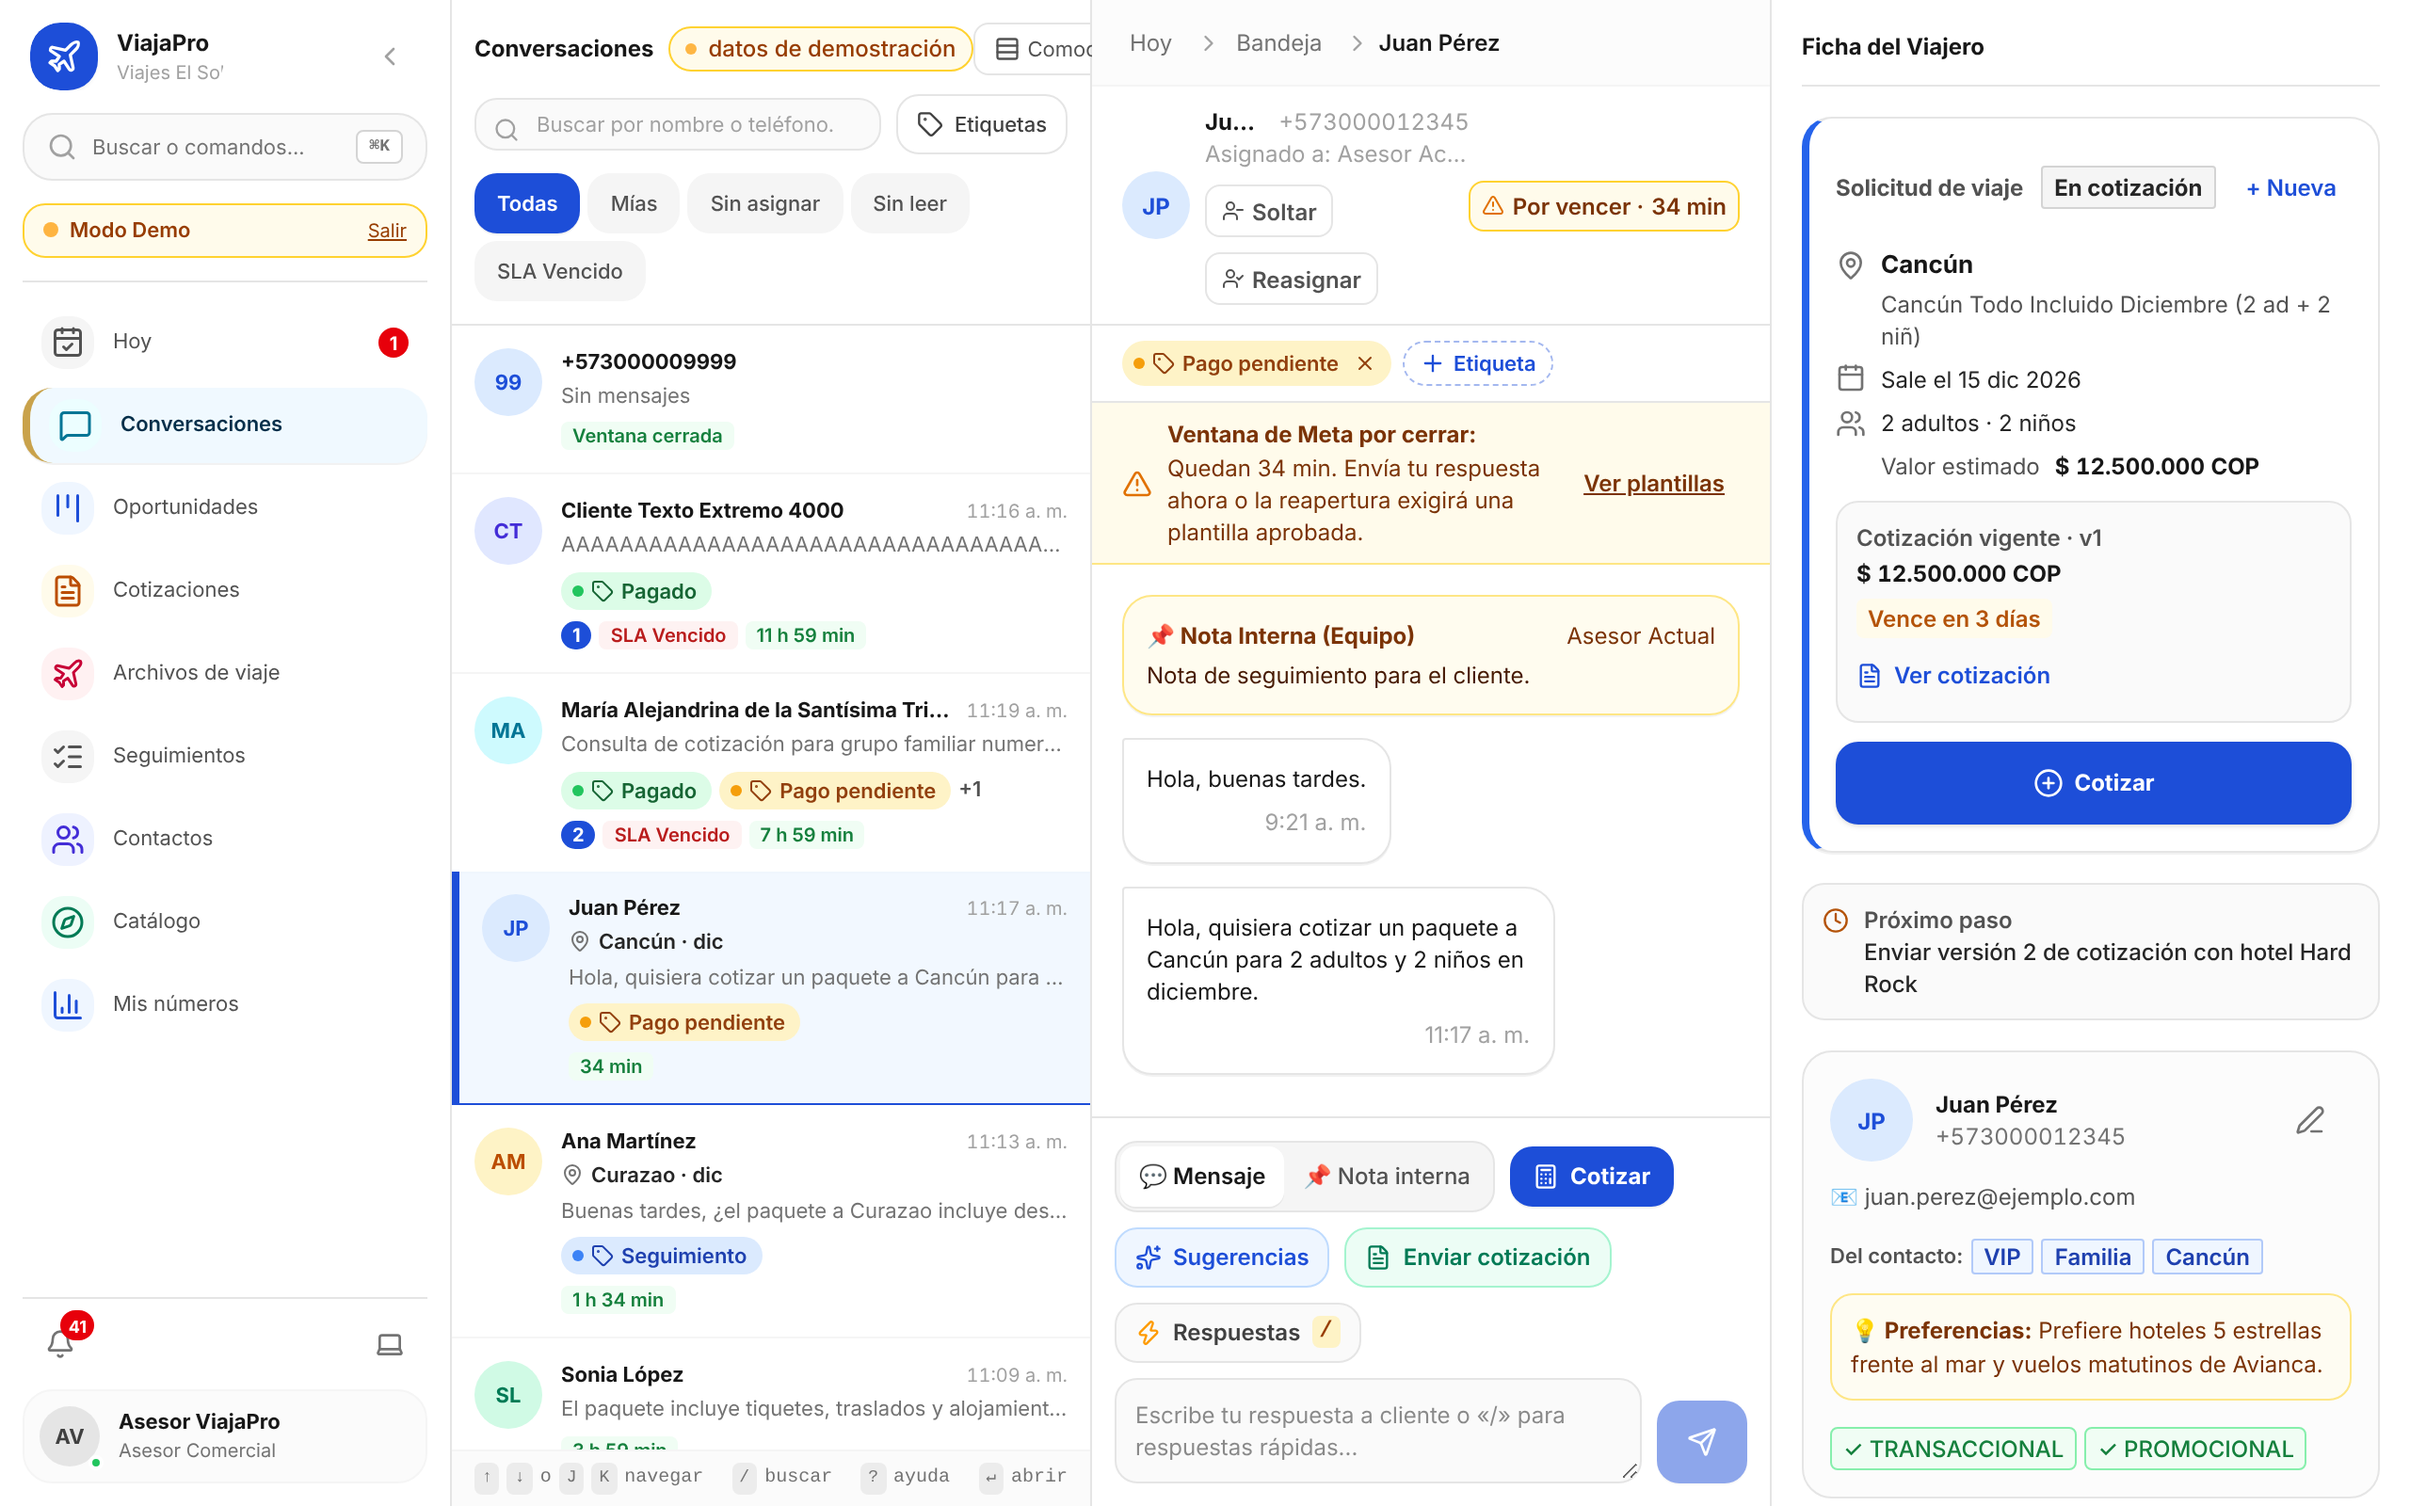
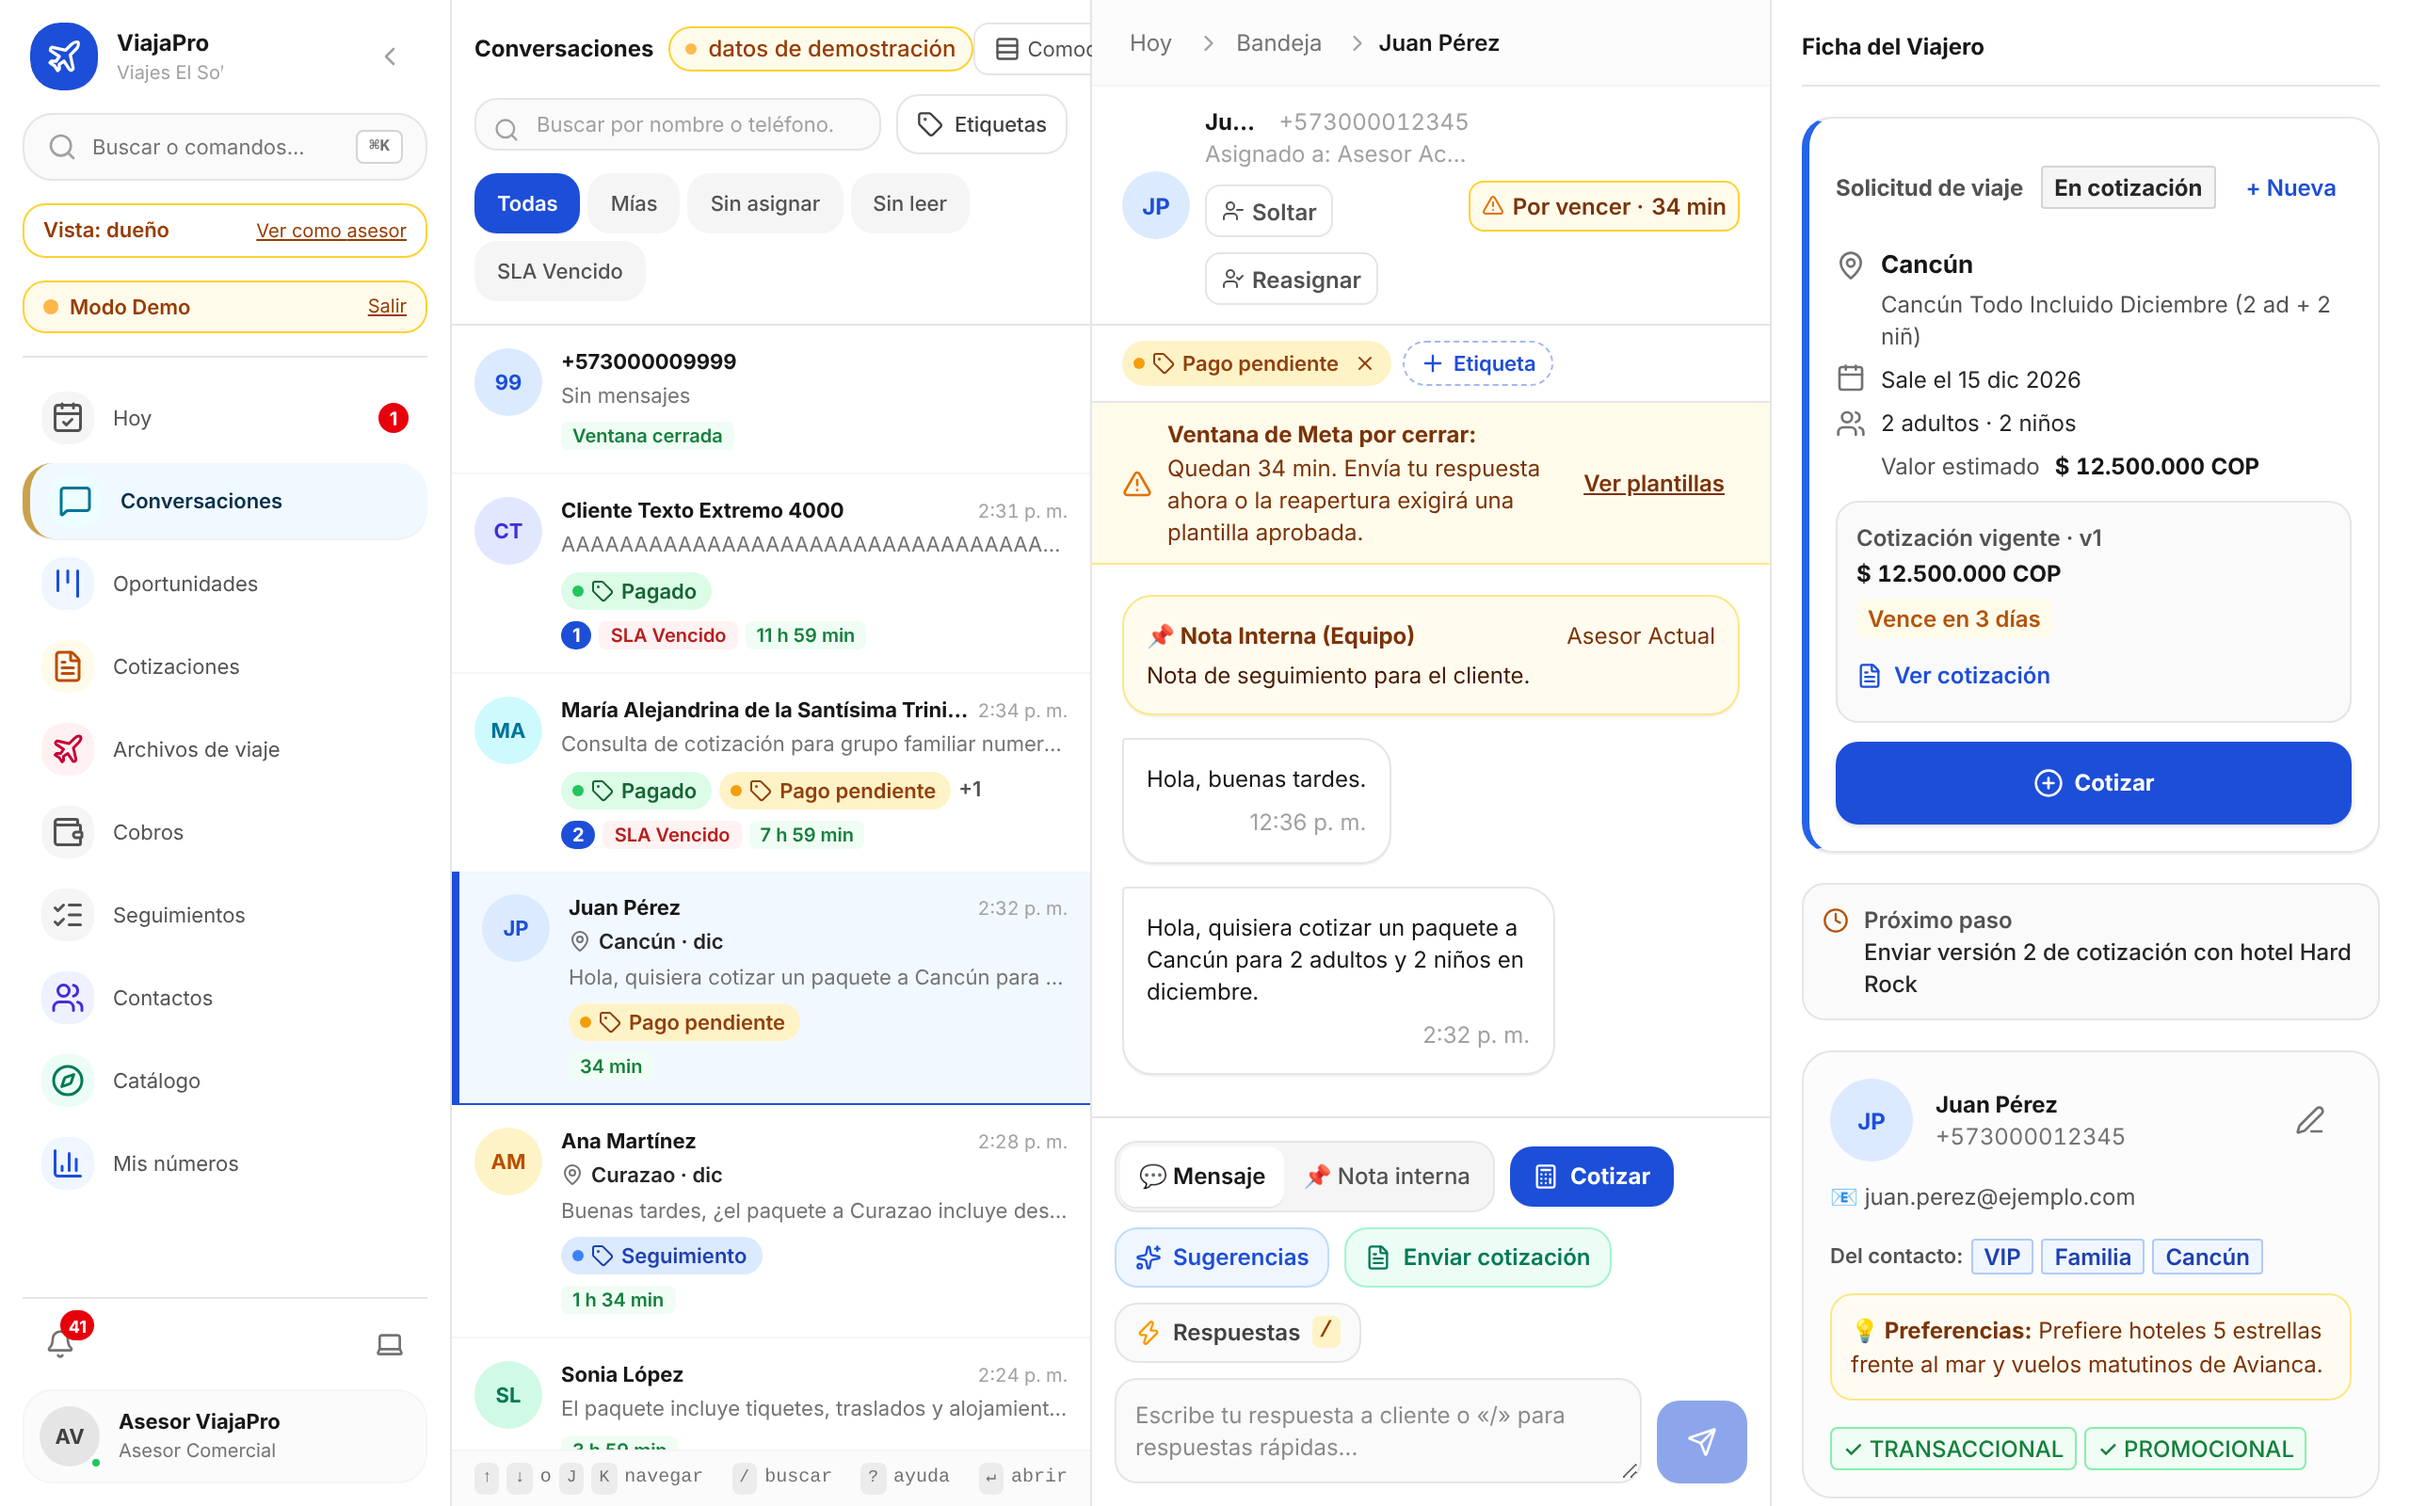
docs(hilo): el recorrido del asesor describe las pantallas de hoy (T-576)

diff --git a/docs/06-manual/01-recorrido-del-asesor.md b/docs/06-manual/01-recorrido-del-asesor.md
@@ -6,9 +6,11 @@ y, cuando algo todavía no existe, **lo dice**.
 > **Antes de empezar:** las capturas son de la demostración («Viajes El Sol», datos de muestra), no
 > de una agencia real. Léete las [tres advertencias](README.md#léelo-con-estas-tres-advertencias).
 
-El menú de la izquierda (en el celular, la barra de abajo y la hoja «Más») tiene siempre las mismas
-entradas: **Hoy · Conversaciones · Oportunidades · Cotizaciones · Archivos de viaje · Seguimientos ·
-Contactos · Catálogo · Mis números**. Con la lupa de arriba («Buscar o comandos…», también `Ctrl K` o
+El menú de la izquierda (en el celular, la barra de abajo y la hoja «Más») muestra las entradas que tu
+perfil permite. Un asesor ve: **Hoy · Conversaciones · Oportunidades · Cotizaciones · Archivos de viaje ·
+Seguimientos · Contactos · Catálogo · Mis números**. Quien tiene permisos de dueño ve además **Cobros**
+(y **Configuración**), y su última entrada se llama «Reportes de la agencia». Las capturas de este manual,
+salvo la del paso 11, están tomadas con la vista del dueño, por eso muestran «Cobros». Con la lupa de arriba («Buscar o comandos…», también `Ctrl K` o
 `⌘K`) llegas a cualquier pantalla escribiendo su nombre.
 
 ---
@@ -35,9 +37,6 @@ tu computador o celular. Dentro de la aplicación, el mismo ajuste está en el i
 lateral, junto a la campana: cada clic pasa de *Sistema* a *Claro*, de *Claro* a *Oscuro* y de *Oscuro* de
 vuelta a *Sistema*. Las capturas de este manual están en tema claro.
 
-- El recuadro verde de arriba del formulario («Modo de Producción… Conectado a la API») **solo
-  refleja cómo está configurada la aplicación; no comprueba que el servidor esté respondiendo**. En
-  la captura sale así aunque se tomó sin ninguna API (T-565).
 - Tu sesión se cierra sola tras un rato sin actividad; la pantalla te lo avisa y vuelves a ingresar.
 - Verás cada agencia por separado: **nunca** aparecen conversaciones, contactos ni cotizaciones de otra
   agencia.
@@ -243,10 +242,9 @@ por cobrar de tus archivos.
 
 - Si tu perfil solo ve lo propio, el título es **«Mis números»**; el dueño ve **«Reportes de la
   agencia»** (ver [su recorrido](02-recorrido-del-dueno.md#6-reportes-de-toda-la-agencia)).
-- ⚠ **La captura de arriba no es la vista de un asesor puro.** El usuario de la demostración tiene
-  permisos de dueño, así que la pantalla se titula «Reportes de la agencia»; para acercarse a lo que ve
-  un asesor se eligió el filtro **«Míos»**. Con un asesor real, el título y el menú dicen «Mis números» y
-  desaparece la comparación entre asesores (T-566).
+- La captura está tomada con la **vista de asesor** de la demostración: el título y el menú dicen «Mis
+  números», sin Configuración ni Cobros y sin la comparación entre asesores (T-566). Esa vista solo existe
+  en la demostración: en la barra lateral, «Vista: asesor» alterna con «Vista: dueño».
 - Cuando hay pocos datos (por ejemplo, menos de 20 cotizaciones enviadas), el sistema **no muestra
   porcentaje** en vez de mostrar uno engañoso.
 - Algunas cifras propias, como tus cotizaciones abiertas y tus cobros por cobrar, **aún no se calculan

diff --git a/docs/_bitacora/2026-11-21-manual-al-dia.md b/docs/_bitacora/2026-11-21-manual-al-dia.md
@@ -1,0 +1,26 @@
+# 2026-11-21 — El manual vuelve a describir las pantallas de hoy (T-576)
+
+**Participantes:** agente `documentador`
+**Duración / alcance:** `docs/06-manual/`: dos notas obsoletas, capturas regeneradas, menú del asesor.
+
+## Qué se hizo
+- Paso 1 del recorrido del asesor: se quitó la nota del recuadro verde «Conectado a la API» (T-565 lo retiró).
+- Paso 11: se quitó la advertencia del filtro «Míos». `capturas.mjs` ahora toma `asesor-11-mis-numeros` con
+  `/reportes?vista=asesor` (vista de asesor puro de la demostración, T-566). La captura muestra el título «Mis números».
+- `regenerar-capturas.md`: se quitó la misma afirmación del recuadro verde.
+- Se regeneraron las 16 capturas (la de ingreso con una compilación aparte con `NEXT_PUBLIC_USE_REAL_AUTH=true`).
+- El menú de la introducción decía que era «siempre el mismo»: ya no lo es. El dueño ve además «Cobros» (T-332).
+
+## Decisiones tomadas
+| Decisión | Razón | Dónde quedó registrada |
+|---|---|---|
+| Las capturas salvo la 11 siguen en vista de dueño | La vista de asesor quita entradas del menú; cambiarlas todas era alcance extra | Introducción del recorrido del asesor |
+
+## Qué quedó pendiente
+- [ ] El saludo de «Hoy» («buenas tardes/noches») depende de la hora de la captura: la imagen cambia sin que cambie la pantalla.
+- [ ] El manual no explica la insignia «Vista: dueño/asesor» más que con una línea en el paso 11.
+
+## Qué aprendimos
+- Al regenerar todo, casi todas las capturas cambian por la barra lateral (insignia «Vista», entrada «Cobros»), no por T-583.
+- T-569 hizo visibles el botón «Guardar etapas» y los iconos de «Etapas del Pipeline»; T-583 cambió contrastes en reportes.
+- La captura de ingreso exige reconstruir la web con `NEXT_PUBLIC_USE_REAL_AUTH=true`.

diff --git a/docs/06-manual/regenerar-capturas.md b/docs/06-manual/regenerar-capturas.md
@@ -45,8 +45,8 @@ la insignia «datos de demostración» y entran directo a «Hoy».
   pudimos verificar tu sesión», porque no hay API que la confirme.
 
 Por eso: compila con `NEXT_PUBLIC_USE_REAL_AUTH=true`, toma solo `asesor-01-ingreso`, y vuelve a
-compilar **sin** esa variable para todas las demás. El recuadro verde del formulario («Conectado a la
-API y PostgreSQL en vivo») sale igual aunque no haya API: refleja la configuración, no una comprobación.
+compilar **sin** esa variable para todas las demás. Desde T-565 el formulario ya no muestra el recuadro
+verde de conexión.
 
 ## Generar las capturas: un comando
 
